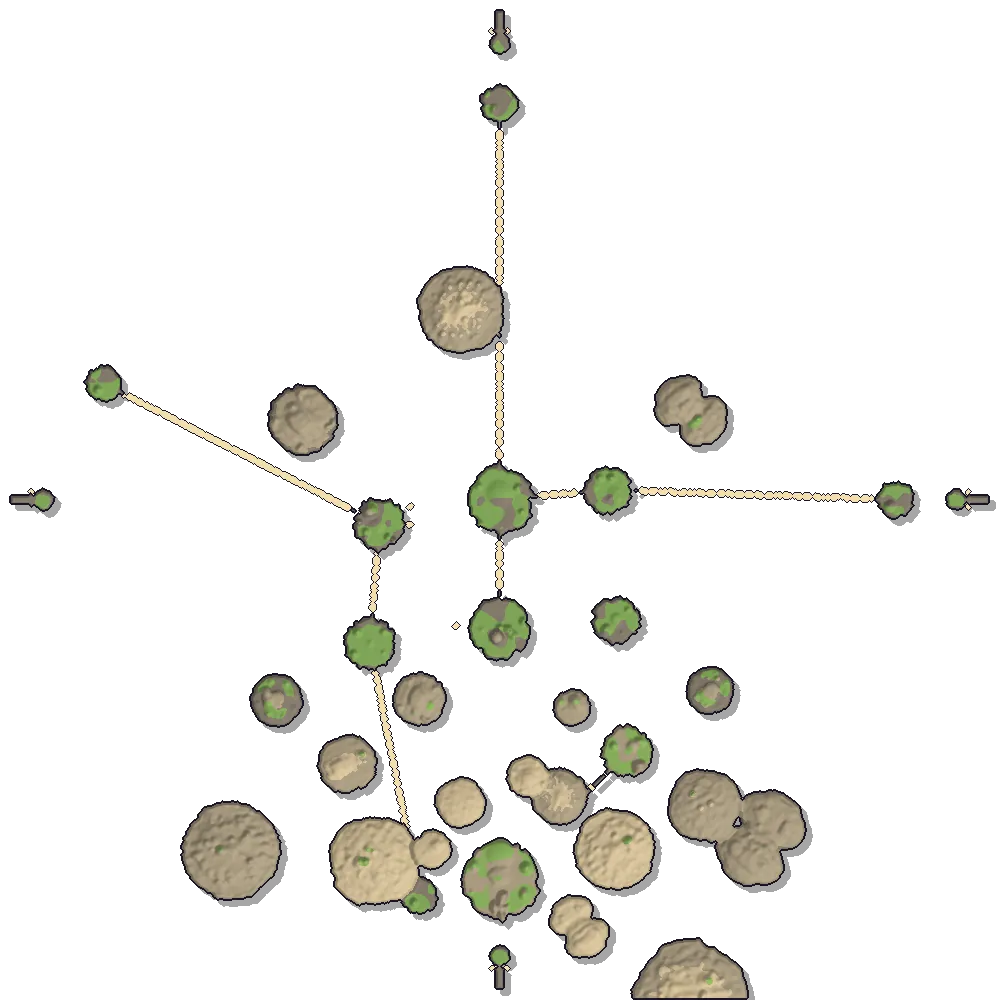
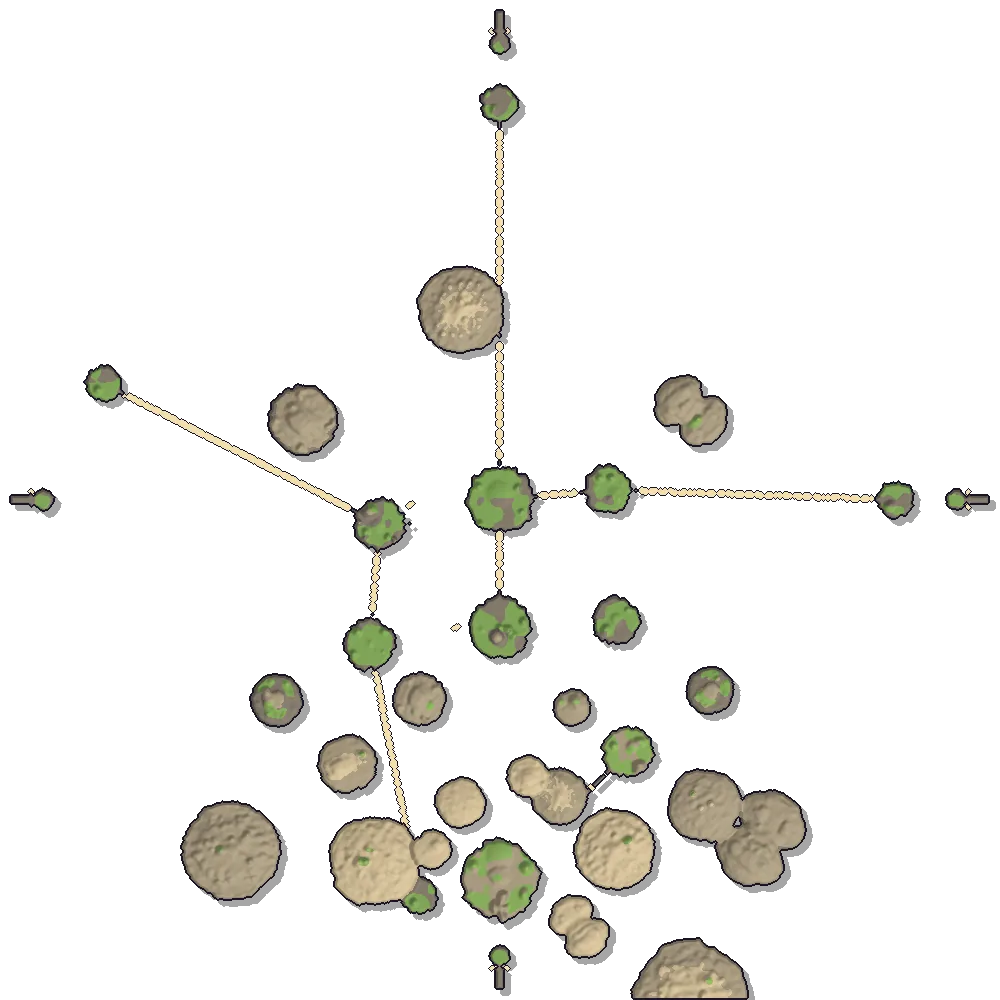
SHARD-PLATFORM E435 sky-mem: Sky Reach lets go of its decoded atlases and painted bitmaps at upload under the Memory saver
Under the Memory saver (on with Developer, which is the only way into the Sky cell, G233), the 22 HD GLB
atlases (73.4 MB of retained CPU copies in the residency ledger) and the painted textures (panorama, rock,
meadow, mill, stormeye, fan leaf) release their ImageBitmaps once uploaded, through the engine's
releaseOnUpload (the same edge Nalati's sky uses). Nothing reads those pixels on the CPU; every clone keeps
the sampler key. The panorama dome reads the strip width the saver keeps. Map rebaked (world/meshes.ts is a
map input).

Native A/B, 3 cold iOS Simulator runs a side, saver on: entered worst pose median 1063.1 -> 1067.9 MB, so
no native saving is credited (WebKit keeps the freed pages; the decode still allocates). Ownership result
only. Pixel diff at the 11 standard poses is within the run-to-run control. Evidence: progress/memory/sky-reach/.
Graph: far-reach -> engine +1 (coordinator-approved; the serialized push regenerates layer-edges).

Plan-State: unchanged
Claude-Session: https://claude.ai/code/session_01AihbFRc7pfU3hiUoEFHg1n

diff --git a/src/shards/far-reach/look/image.ts b/src/shards/far-reach/look/image.ts
@@ -1,11 +1,15 @@
 import { LinearMipmapLinearFilter, RepeatWrapping, SRGBColorSpace, Texture } from 'three';
 import { cacheUntilDisposed } from '@wildshard/engine/app/cachedAssets';
+import { releaseOnUpload } from '@wildshard/engine/render/memorySaver';
 
 /** Drop a borrowed sampler assignment when its owning texture retires, without touching a newer assignment. */
 export function onPaintedDispose(texture: Texture | null, forget: () => void): void {
   if (texture === null) return;
   cacheUntilDisposed(texture, forget);
 }
+
+/** Memory saver: a decoded image nothing on the CPU reads again goes at its upload (the engine's `releaseOnUpload`). */
+export function releaseDecodedOnUpload(texture: Texture, close: () => void): void { releaseOnUpload(texture.source, close); }
 
 /**
  * A painted image as an sRGB texture, fetched and decoded off the main thread (an ImageBitmap, flipped at decode as the
@@ -19,6 +23,9 @@ export async function loadPainted(url: string, name: string, tile = false): Prom
     const bitmap = await createImageBitmap(await response.blob(), { imageOrientation: 'flipY' });
     const tex = new Texture(bitmap); tex.colorSpace = SRGBColorSpace; tex.name = name;
     onPaintedDispose(tex, () => { bitmap.close(); });
+    // Memory saver (on with Developer, so wherever Sky Reach is reachable): the decoded RGBA copy goes at its upload.
+    // Nothing reads these pixels on the CPU and every clone keeps the sampler key (the mill's bump channel is not in it).
+    releaseDecodedOnUpload(tex, () => { bitmap.close(); });
     if (tile) { tex.wrapS = RepeatWrapping; tex.wrapT = RepeatWrapping; tex.generateMipmaps = true; tex.minFilter = LinearMipmapLinearFilter; tex.anisotropy = 4; }
     tex.needsUpdate = true;
     return tex;

diff --git a/src/shards/far-reach/world/meshes.ts b/src/shards/far-reach/world/meshes.ts
@@ -1,5 +1,6 @@
 import { loadRigFile } from '@wildshard/engine/anim/rig';
 import { cacheUntilDisposed, retainCachedResources } from '@wildshard/engine/app/cachedAssets';
+import { releaseDecodedOnUpload } from '../look/image';
 import { SKY_HD, SKY_MESHES, skyHdUrl, skyMeshUrl, type SkyHdName, type SkyMeshName } from '../boot/files';
 import { Box3, BufferGeometry, Float32BufferAttribute, Mesh, MeshStandardMaterial, Uint16BufferAttribute, Uint32BufferAttribute, Vector3, type BufferAttribute, type InterleavedBufferAttribute, type Object3D, type Texture } from 'three';
 
@@ -70,6 +71,10 @@ async function loadHd(name: SkyHdName): Promise<void> {
       found.push({ geometry: g, map: m.map });
     });
     const one = found[0]; if (one === undefined) throw new Error(`${name}: no textured mesh`);
+    // Memory saver: the GLB's decoded atlas goes at its upload. Sky Reach never reads these maps on the CPU, every user
+    // shares this one texture (no other sampler key), and the GLB is parsed afresh per visit (no cache keeps the source).
+    const atlas: unknown = one.map.image;
+    if (typeof ImageBitmap !== 'undefined' && atlas instanceof ImageBitmap) releaseDecodedOnUpload(one.map, () => { atlas.close(); });
     retainCachedResources(one); hd.set(name, one);
     cacheUntilDisposed(one, () => { if (hd.get(name) === one) { hd.delete(name); loading = null; } });
   } catch (e: unknown) { console.warn(`[far-reach] ${name} not loaded, the faceted model stands in:`, e); }

diff --git a/src/shards/far-reach/look/sky.ts b/src/shards/far-reach/look/sky.ts
@@ -51,7 +51,9 @@ export const HEADING_GLSL = 'float farHeading(vec3 v){ return fract(atan(v.x, -v
 export function skyDome(pano: Texture, haze: Texture): Mesh<SphereGeometry, ShaderMaterial> {
   const [zr, zg, zb] = PANO_ZENITH_SRGB, [nr, ng, nb] = PANO_NADIR_SRGB;
   // the strip carries PANO_PAD_PX columns of wrap either side: the heading maps inside them
-  const image: unknown = pano.image, total = typeof ImageBitmap !== 'undefined' && image instanceof ImageBitmap ? image.width : PANO_PAD_PX * 2 + 1;
+  // the strip's width: its bitmap's, or the size the Memory saver keeps once the bitmap went at its upload
+  const image: unknown = pano.image, width: unknown = typeof image === 'object' && image !== null ? Reflect.get(image, 'width') : undefined;
+  const total = typeof width === 'number' && width > 1 ? width : PANO_PAD_PX * 2 + 1;
   const padU = PANO_PAD_PX / total, scaleU = (total - PANO_PAD_PX * 2) / total;
   return new Mesh(new SphereGeometry(900, 64, 32), new ShaderMaterial({ side: BackSide, depthWrite: false, fog: false,
     uniforms: { pano: { value: pano }, haze: { value: haze }, padU: { value: padU }, scaleU: { value: scaleU } },
